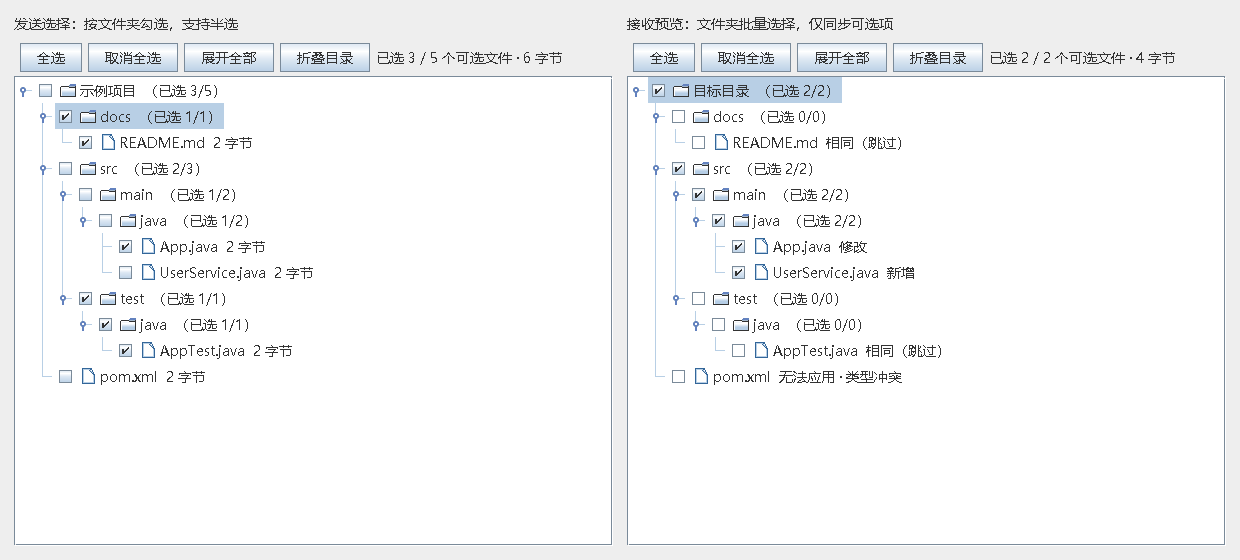
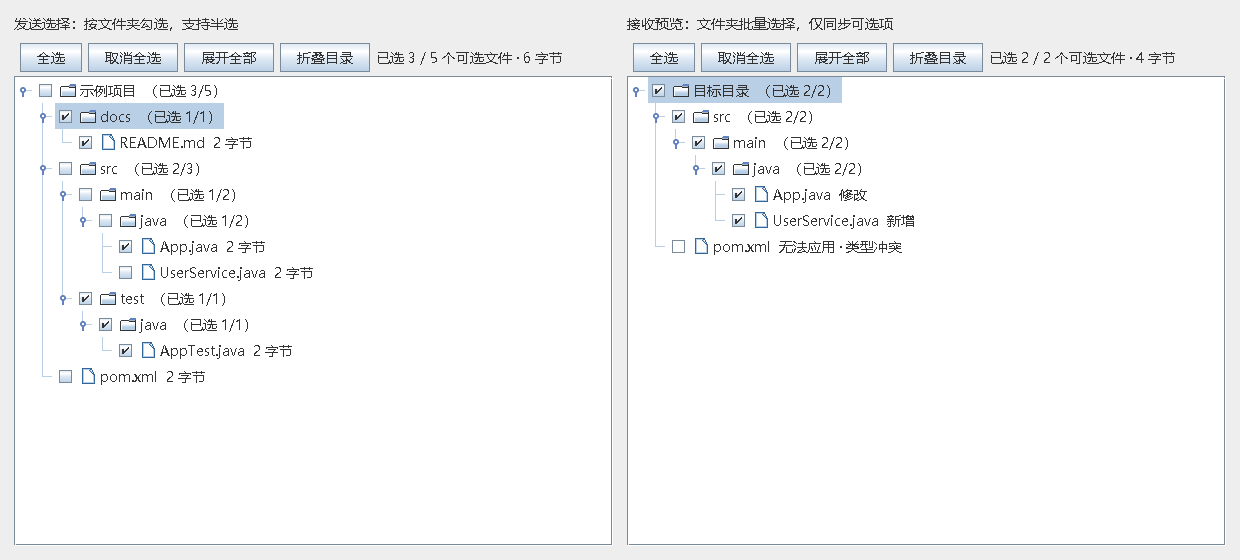
fix: hide identical files from receiver preview

diff --git a/tools/TreeUiSmoke.java b/tools/TreeUiSmoke.java
@@ -2,6 +2,7 @@ package dev.clipboard.sync.ide;
 
 import dev.clipboard.sync.core.*;
 import dev.clipboard.sync.core.SyncModel.FileEntry;
+import static dev.clipboard.sync.core.SyncModel.*;
 import javax.swing.*;
 import javax.swing.tree.*;
 import java.awt.*;
@@ -31,7 +32,8 @@ public final class TreeUiSmoke {
                 for(int row=0;row<tree.getRowCount();row++)tree.expandRow(row);
                 JPanel panel=new JPanel(new GridLayout(1,2,14,0));panel.setBorder(BorderFactory.createEmptyBorder(14,14,14,14));
                 JPanel left=new JPanel(new BorderLayout(0,10));left.add(new JLabel("发送选择：按文件夹勾选，支持半选"),BorderLayout.NORTH);left.add(send,BorderLayout.CENTER);panel.add(left);
-                FileTree receive=new FileTree("目标目录");receive.setFiles(entries,Set.of(paths.get(0),paths.get(1)),Map.of(paths.get(0),"修改",paths.get(1),"新增",paths.get(2),"相同（跳过）",paths.get(3),"相同（跳过）",paths.get(4),"无法应用 · 类型冲突"));
+                var preview=new Preview(Path.of("target"),new Snapshot(UUID.randomUUID(),"source",java.time.Instant.now(),entries),List.of(new Change(paths.get(0),ChangeKind.MODIFY,null,null,""),new Change(paths.get(1),ChangeKind.ADD,null,null,""),new Change(paths.get(2),ChangeKind.SAME,null,null,""),new Change(paths.get(3),ChangeKind.SAME,null,null,""),new Change(paths.get(4),ChangeKind.BLOCKED,null,null,"类型冲突")));
+                FileTree receive=new FileTree("目标目录");receive.setFiles(DirectorySync.changedFiles(preview),Set.of(paths.get(0),paths.get(1)),Map.of(paths.get(0),"修改",paths.get(1),"新增",paths.get(4),"无法应用 · 类型冲突"));
                 JTree targetTree=findTree(receive);for(int row=0;row<targetTree.getRowCount();row++)targetTree.expandRow(row);
                 JPanel right=new JPanel(new BorderLayout(0,10));right.add(new JLabel("接收预览：文件夹批量选择，仅同步可选项"),BorderLayout.NORTH);right.add(receive,BorderLayout.CENTER);panel.add(right);
                 panel.setSize(1240,560);layout(panel);
@@ -40,6 +42,7 @@ public final class TreeUiSmoke {
                 for(MouseListener listener:tree.getMouseListeners())if(listener.getClass().getName().startsWith(FileTree.class.getName()))listener.mousePressed(click);
                 if(!send.selectedPaths().contains("docs/README.md"))throw new AssertionError("Checkbox mouse hit target did not select folder");
                 if(!receive.selectedPaths().equals(Set.of(paths.get(0),paths.get(1))))throw new AssertionError("Blocked/unchanged items selected");
+                assertHidden(targetTree,paths.get(2),false);assertHidden(targetTree,paths.get(3),false);assertHidden(targetTree,"docs",true);assertHidden(targetTree,"src/test",true);
                 BufferedImage image=new BufferedImage(1240,560,BufferedImage.TYPE_INT_RGB);Graphics2D graphics=image.createGraphics();panel.paint(graphics);graphics.dispose();
                 Component cell=tree.getCellRenderer().getTreeCellRendererComponent(tree,tree.getModel().getRoot(),false,true,false,0,false);
                 cell.setSize(400,26);BufferedImage rowImage=new BufferedImage(400,26,BufferedImage.TYPE_INT_RGB);Graphics2D rowGraphics=rowImage.createGraphics();cell.paint(rowGraphics);rowGraphics.dispose();
@@ -50,6 +53,7 @@ public final class TreeUiSmoke {
         });
     }
     private static void key(JTree tree,TreePath path){tree.setSelectionPath(path);tree.getActionMap().get("toggle-directory-check").actionPerformed(new ActionEvent(tree,0,"space"));}
+    private static void assertHidden(JTree tree,String relative,boolean directory){try{path(tree,relative,directory);}catch(AssertionError expected){return;}throw new AssertionError("Identical file or empty folder is visible: "+relative);}
     private static TreePath path(JTree tree,String relative,boolean directory){var root=(DefaultMutableTreeNode)tree.getModel().getRoot();var nodes=root.breadthFirstEnumeration();while(nodes.hasMoreElements()){var node=(DefaultMutableTreeNode)nodes.nextElement();var data=(DirectorySelection.Node)node.getUserObject();if(data.relativePath().equals(relative)&&data.directory()==directory)return new TreePath(node.getPath());}throw new AssertionError("Missing tree path "+relative);}
     private static JTree findTree(Container component){for(Component child:component.getComponents()){if(child instanceof JTree tree)return tree;if(child instanceof Container container){var found=findTree(container);if(found!=null)return found;}}return null;}
     private static void layout(Container container){container.doLayout();for(Component child:container.getComponents())if(child instanceof Container nested)layout(nested);}

diff --git a/src/main/java/dev/clipboard/sync/ide/ReceiveDialog.java b/src/main/java/dev/clipboard/sync/ide/ReceiveDialog.java
@@ -105,7 +105,7 @@ final class ReceiveDialog extends DialogWrapper {
             if(Messages.showYesNoDialog(project,"将新增或更新 "+selected.size()+" 个文件。是否继续？","应用目录同步",null)!=Messages.YES)return;
             Preview planned=preview;
             files.setLocked(true);apply.setEnabled(false);
-            controller.background("应用目录同步", i -> FileApplier.applyGuarded(planned,selected,i::isCanceled,controller::documentsSaved,controller::mutate), result->{controller.refresh(target);controller.result(result);if(isDisposed())return;preview=null;files.clear();apply.setEnabled(false);progress.setText("应用结束。可重新预览以确认当前目录状态。");},()->{if(!isDisposed()){files.setLocked(false);apply.setEnabled(preview!=null);}});
+            controller.background("应用目录同步", i -> FileApplier.applyGuarded(planned,selected,i::isCanceled,controller::documentsSaved,controller::mutate), result->{controller.refresh(target);controller.result(result);if(isDisposed())return;preview=null;files.clear();apply.setEnabled(false);progress.setText("应用结束。可重新预览以确认当前目录状态。");},()->{if(!isDisposed()){files.setLocked(false);apply.setEnabled(preview!=null&&!files.selectedPaths().isEmpty());}});
         });
         return panel;
     }
@@ -117,8 +117,13 @@ final class ReceiveDialog extends DialogWrapper {
         if(isDisposed())return; current=value.progress().id();preview=value.preview();files.clear();
         var state=value.progress(); String missing=java.util.stream.IntStream.rangeClosed(1,state.total()).filter(n->!state.received().contains(n)).limit(30).mapToObj(String::valueOf).collect(java.util.stream.Collectors.joining(", "));
         progress.setText("已收到 "+state.received().size()+" / "+state.total()+" 段"+(state.complete()?"，校验通过。勾选要应用的文件。":"；缺少："+missing));
-        if(preview!=null){Set<String> selectable=new HashSet<>();Map<String,String> descriptions=new HashMap<>();for(var c:preview.changes()){if(c.kind()==ChangeKind.ADD||c.kind()==ChangeKind.MODIFY)selectable.add(c.relativePath());descriptions.put(c.relativePath(),kind(c.kind())+(c.reason().isEmpty()?"":" · "+c.reason()));}files.setFiles(preview.snapshot().files(),selectable,descriptions);}
-        apply.setEnabled(preview!=null); if(((DefaultComboBoxModel<UUID>)sessions.getModel()).getIndexOf(current)<0)sessions.addItem(current); sessions.setSelectedItem(current);
+        if(preview!=null){
+            Set<String> selectable=new HashSet<>();Map<String,String> descriptions=new HashMap<>();
+            for(var c:preview.changes()){if(c.kind()==ChangeKind.SAME)continue;if(c.kind()==ChangeKind.ADD||c.kind()==ChangeKind.MODIFY)selectable.add(c.relativePath());descriptions.put(c.relativePath(),kind(c.kind())+(c.reason().isEmpty()?"":" · "+c.reason()));}
+            var visible=DirectorySync.changedFiles(preview);files.setFiles(visible,selectable,descriptions);
+            if(visible.isEmpty())progress.setText("接收的文件均相同，无需同步。");
+        }
+        apply.setEnabled(preview!=null&&!files.selectedPaths().isEmpty()); if(((DefaultComboBoxModel<UUID>)sessions.getModel()).getIndexOf(current)<0)sessions.addItem(current); sessions.setSelectedItem(current);
     }
     private static String kind(ChangeKind k){return switch(k){case ADD->"新增";case MODIFY->"修改";case SAME->"相同（跳过）";case BLOCKED->"无法应用";};}
     private long beginManualOperation(){autoEpoch++;if(autoLoop!=null)autoLoop.close();autoLoop=null;automatic.setEnabled(true);pause.setEnabled(false);stop.setEnabled(false);return autoEpoch;}

diff --git a/src/test/java/dev/clipboard/sync/core/DirectorySyncTest.java b/src/test/java/dev/clipboard/sync/core/DirectorySyncTest.java
@@ -40,6 +40,31 @@ class DirectorySyncTest {
         var preview = DirectorySync.preview(target, snap("dir","data","file/child","data","A/x","1","a/y","2","UP","1","up","2"), () -> false);
         assertTrue(preview.changes().stream().allMatch(c -> c.kind() == ChangeKind.BLOCKED), preview.changes().toString());
     }
+    @Test void receiverOnlyShowsAddedModifiedAndBlockedFiles() throws Exception {
+        Path target=root();Files.createDirectories(target.resolve("src"));Files.createDirectories(target.resolve("docs"));
+        Files.writeString(target.resolve("src/same.java"),"same");Files.writeString(target.resolve("src/changed.java"),"old");Files.writeString(target.resolve("docs/only-same.md"),"same");Files.createDirectory(target.resolve("conflict"));
+        var preview=DirectorySync.preview(target,snap("src/same.java","same","src/changed.java","new","docs/only-same.md","same","nested/added.java","new","conflict","new"),()->false);
+        var visible=DirectorySync.changedFiles(preview);
+        assertEquals(List.of("src/changed.java","nested/added.java","conflict"),visible.stream().map(FileEntry::relativePath).toList());
+        var selectable=preview.changes().stream().filter(c->c.kind()==ChangeKind.ADD||c.kind()==ChangeKind.MODIFY).map(Change::relativePath).collect(java.util.stream.Collectors.toSet());
+        var selection=new DirectorySelection(visible,selectable);
+        assertThrows(IllegalArgumentException.class,()->selection.node("docs"));
+        assertThrows(IllegalArgumentException.class,()->selection.node("src/same.java"));
+        assertEquals(Set.of("src/changed.java","nested/added.java"),selection.selectedPaths());assertFalse(selection.node("conflict").selectable());
+        assertEquals(5,preview.snapshot().files().size());assertEquals(5,preview.changes().size());
+    }
+    @Test void identicalReceiverHasNoVisibleFilesOrSelectableChildren() throws Exception {
+        Path target=root();Files.createDirectories(target.resolve("a/sub"));Files.writeString(target.resolve("a/sub/same"),"same");
+        var preview=DirectorySync.preview(target,snap("a/sub/same","same"),()->false);
+        var visible=DirectorySync.changedFiles(preview);assertTrue(visible.isEmpty());
+        var selection=new DirectorySelection(visible);assertTrue(selection.root().children().isEmpty());assertTrue(selection.selectedPaths().isEmpty());
+    }
+    @Test void receiverRefreshShowsFileThatChangedSinceLastComparison() throws Exception {
+        Path target=root();Files.writeString(target.resolve("a"),"same");var snapshot=snap("a","same");
+        assertTrue(DirectorySync.changedFiles(DirectorySync.preview(target,snapshot,()->false)).isEmpty());
+        Files.writeString(target.resolve("a"),"later local change");
+        assertEquals(List.of("a"),DirectorySync.changedFiles(DirectorySync.preview(target,snapshot,()->false)).stream().map(FileEntry::relativePath).toList());
+    }
     @Test void rejectsPathTraversalAndWindowsInvalidNames() throws Exception {
         Path target = root();
         for (String path : List.of("../x", "/x", "C:/x", "a/../../x", "a\\x", "a//b", "a/./b")) assertThrows(IOException.class, () -> PathPolicy.resolve(target, path), path);

diff --git a/src/main/java/dev/clipboard/sync/core/DirectorySync.java b/src/main/java/dev/clipboard/sync/core/DirectorySync.java
@@ -8,6 +8,12 @@ import static dev.clipboard.sync.core.SyncModel.*;
 
 public final class DirectorySync {
     private DirectorySync() {}
+    /** Receiver display policy; keep the original snapshot and comparisons intact for applying and refreshing. */
+    public static List<FileEntry> changedFiles(Preview preview) {
+        Set<String> visible=new HashSet<>();
+        for(var change:preview.changes())if(change.kind()!=ChangeKind.SAME)visible.add(change.relativePath());
+        return preview.snapshot().files().stream().filter(file->visible.contains(file.relativePath())).toList();
+    }
     public static Preview preview(Path targetRoot, Snapshot snapshot, BooleanSupplier cancelled) throws IOException {
         Path root = targetRoot.toAbsolutePath().normalize(); PathPolicy.checkAncestors(root);
         if (!Files.isDirectory(root, LinkOption.NOFOLLOW_LINKS)) throw new IOException("目标目录不存在");

diff --git a/README.md b/README.md
@@ -1,24 +1,24 @@
 # Clipboard Directory Sync
 
-通过**文本剪贴板**在本机和虚拟机的 IDEA 之间同步整个目录。**0.3.0 使用目录树勾选文件夹，直接同步，不创建备份**；保留 0.2 的自动收发，适用于 Windows 自带远程桌面（mstsc）的双向剪贴板重定向。两边安装同一个插件，运行时不需要另外开通网络端口、共享目录、Git 或外部程序。操作界面为中文。
+通过**文本剪贴板**在本机和虚拟机的 IDEA 之间同步整个目录。**0.3.1 接收端仅显示有差异的文件**，支持目录树勾选文件夹，直接同步，不创建备份；保留 0.2 的自动收发，适用于 Windows 自带远程桌面（mstsc）的双向剪贴板重定向。两边安装同一个插件，运行时不需要另外开通网络端口、共享目录、Git 或外部程序。操作界面为中文。
 
 兼容目标：IDEA **2025.1.2 和 2025.3.3**，以及声明范围内的 251–253 系列。两个指定版本的验证情况见 [验证记录](docs/verification.md)。
 
 ## 下载
 
-从 [GitHub Releases 下载 0.3.0](https://github.com/keyboardman2022/idea-clipboard-sync/releases/tag/v0.3.0)：安装包、源码 ZIP 和远程端文字安装文件均放在该版本附件中。
+从 [GitHub Releases 下载 0.3.1](https://github.com/keyboardman2022/idea-clipboard-sync/releases/tag/v0.3.1)：安装包、源码 ZIP 和远程端文字安装文件均放在该版本附件中。
 
 ![发送和接收目录树预览](docs/tree-selection-preview.png)
 
 ## 安装
 
-安装包：`build/distributions/idea-clipboard-sync-0.3.0.zip`。**本机和远程桌面内的 IDEA 都升级到 0.3.0**，以使用目录树和取消备份后的同步流程。使用原来的磁盘安装入口覆盖安装，按 IDEA 提示重启；旧版本留下的备份和接收缓存不会被自动删除。
+安装包：`build/distributions/idea-clipboard-sync-0.3.1.zip`。**接收端升级到 0.3.1** 后即可隐藏相同文件；建议两边均使用新版。使用原来的磁盘安装入口覆盖安装，按 IDEA 提示重启；旧版本留下的备份和接收缓存不会被自动删除。
 
 两边 IDEA 均进入 **Settings → Plugins → 齿轮 → Install Plugin from Disk…**，选择 ZIP；IDEA 提示重启时按提示重启。插件列表里的名称为 **Clipboard Directory Sync**。
 
 ### 虚拟机只能粘贴文字时，如何传入初次安装包
 
-打包后会生成 `build/distributions/clipboard-install-0.3.0/`：
+打包后会生成 `build/distributions/clipboard-install-0.3.1/`：
 
 - `vm-install-all.txt`：复制全文，粘贴到虚拟机的 PowerShell 并执行，即可还原经过 SHA-256 校验的 ZIP。脚本末尾会输出安装包路径；再通过 IDEA 的 Install Plugin from Disk 安装。
 - 如果长文本被截断，改为逐个复制 `part-001.txt`、`part-002.txt` 等到虚拟机 PowerShell 执行，最后执行 `finish.txt`。每段可重复执行；缺段或校验不符会报错，不能生成安装包。分段文件可以乱序执行，但 `finish.txt` 必须在全部段写入后执行。
@@ -38,7 +38,8 @@
 - 取消部分子文件后，父目录显示部分选择状态及已选数量；再次勾选父目录可选中全部可选子文件。
 - 支持 **全选、取消全选、展开全部、折叠目录**。只同步某个文件夹时，可先取消全选，再勾选该文件夹。
 - 键盘方向键浏览和展开目录，**空格**切换当前文件或文件夹的勾选状态。
-- 接收端保留“新增、修改、相同、无法应用”的状态；相同和冲突文件的复选框不可勾选，也不会被文件夹批量选择带入。
+- 接收端只展示“新增、修改、无法应用”的文件；内容相同的文件直接隐藏，仅包含相同文件的子目录也隐藏。冲突文件仍显示原因，复选框不可勾选。
+- 本次接收文件全部相同时，提示“接收的文件均相同，无需同步”，并禁用应用按钮。目标端独有文件仍保留。
 - 选择具体文件后点击 **查看选中文件差异**；目录选择仍按相对路径映射，不会额外嵌套一层目录。
 - 生成数据与应用文件期间暂时锁定勾选，确保界面选择和实际操作一致。源数据生成后保持该次快照的选择不变。
 
@@ -69,7 +70,7 @@
 
 | 目标情况 | 插件行为 |
 | --- | --- |
-| 已有相同文件 | 校验一致，跳过写入 |
+| 已有相同文件 | 从接收目录树隐藏，跳过写入 |
 | 已有不同文件 | 列为“修改”，可比较后勾选应用 |
 | 不存在的文件 | 列为“新增”，自动创建文件与父目录 |
 | 仅接收端存在的文件 | 保留，不执行删除 |

diff --git a/docs/progress.md b/docs/progress.md
@@ -47,3 +47,11 @@
 - Headless actual-component smoke test passed keyboard/click/lock/eligibility behavior. Visual inspection exposed blank rows: reused renderer panels had no child layout. Added a failing geometry assertion, laid out children during renderer painting, reran smoke successfully and inspected the resulting preview.
 - Independent whole-change review found no Critical/Important issues. Source compiled against both specified SDKs. Final Plugin Verifier: Compatible on 251 and 253, with no deprecated API usage findings after restore chooser removal.
 - Final ZIP SHA-256 82F0F65FCFDF07AF930DC1943F0834835E0A2B017649386901087FCCF9847B86, 96,638 bytes. Single and 11-part Windows bootstrap smoke tests passed. Build and verification records in verification.md; live full-IDE UI/real RDP not newly exercised.
+
+## 0.3.1 — receiver hides identical files (2026-11-02)
+
+- User explicitly scopes the change to the receiver. Added a tested display filter; sender selection and transport remain unchanged.
+- RED observed missing changedFiles(Preview); GREEN: mixed add/modify/blocked entries retained, identical leaves and empty descendant folders omitted, all-identical preview empty, and later local changes become visible on refresh. Original snapshot/comparison lists remain intact.
+- Final core suite: 53 discovered, 51 successful, 2 environment assumptions aborted, zero failures. Actual FileTree fixture now uses the production filter and asserts hidden identical leaves and directories.
+- All-identical preview disables Apply and reports that received files match (without claiming target-only files are absent). Existing no-backup and automatic transfer behavior retained.
+- Final lowest-SDK build SHA-256 26803B1D606BDE547174D9B68D5EF80ABCE536A669F3BF880D7173A0356582E7, 97,019 bytes. Both specified SDK/API checks passed; final Plugin Verifier reports Compatible for both target versions. Windows installer smoke passed. Existing public GitHub publishing preference retained for patch delivery.

diff --git a/docs/verification.md b/docs/verification.md
@@ -2,7 +2,17 @@
 
 最新验证日期：2026-11-02（Asia/Shanghai）；下方保留旧版本的历史记录。
 
-## 0.3.0：目录树与取消备份
+## 0.3.1：接收端隐藏相同文件
+
[1 lines of base64/hex data omitted]
+- 接收预览仅展示 ADD、MODIFY、BLOCKED，对比结果为 SAME 的文件不进入目录树，仅含这些文件的子目录自然消失。原始快照和全部对比结果保留，源端选择、传输、写入与重新比较逻辑不受影响。
+- 接收文件全相同时提示“接收的文件均相同，无需同步”，禁用应用按钮；目标端独有文件仍保留。手动、自动和重新预览共用同一展示入口。
+- 测试：**53 项发现、51 项通过、0 项失败、2 项环境中止**，日志 `build/hide-same-tests.log`。新增实际目录测试覆盖新增/修改/冲突保留、相同文件和空子目录隐藏、全相同为空、重新比较后文件变化重新出现，并断言完整快照未被展示过滤改写。
+- 更新真实 FileTree 无窗口交互/渲染检查，验证相同文件、docs 和 src/test 子目录不再出现在接收树；既有勾选、锁定和接收可选项检查通过。预览图已同步更新。
+- 2025.1.2 API 打包与 2025.3.3 SDK 编译通过。官方 Plugin Verifier 对最终 0.3.1 安装包的 IC-251.26094.121 和 IU-253.31033.145 均报告 Compatible，见 `build/verifier-hide-same-final/`；最低 SDK 子集和真实 IDE/RDP 验证范围限制与下方旧记录一致。
+- Windows PowerShell 5.1 单份和 11 份分段安装文本还原校验通过，包含逆序和重复片段。目录 `build/distributions/clipboard-install-0.3.1/`。
+
+## 0.3.0 历史：目录树与取消备份
 
 - 插件：`build/distributions/idea-clipboard-sync-0.3.0.zip`，96,638 字节。
[1 lines of base64/hex data omitted]
